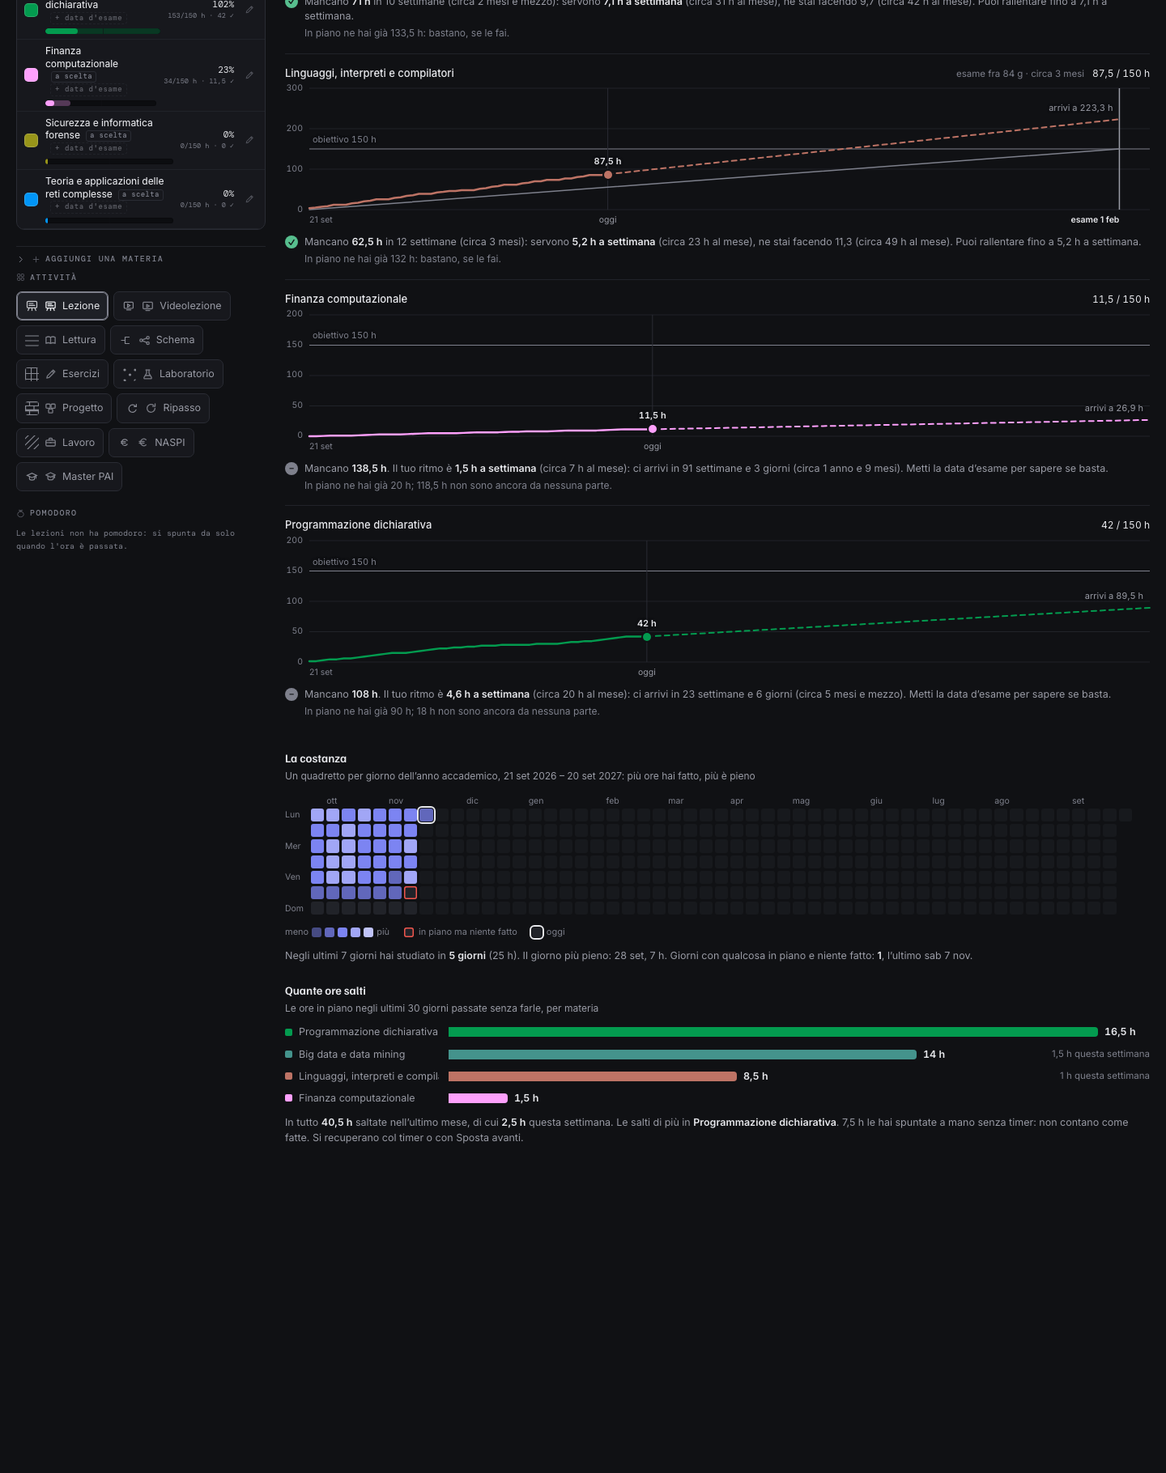
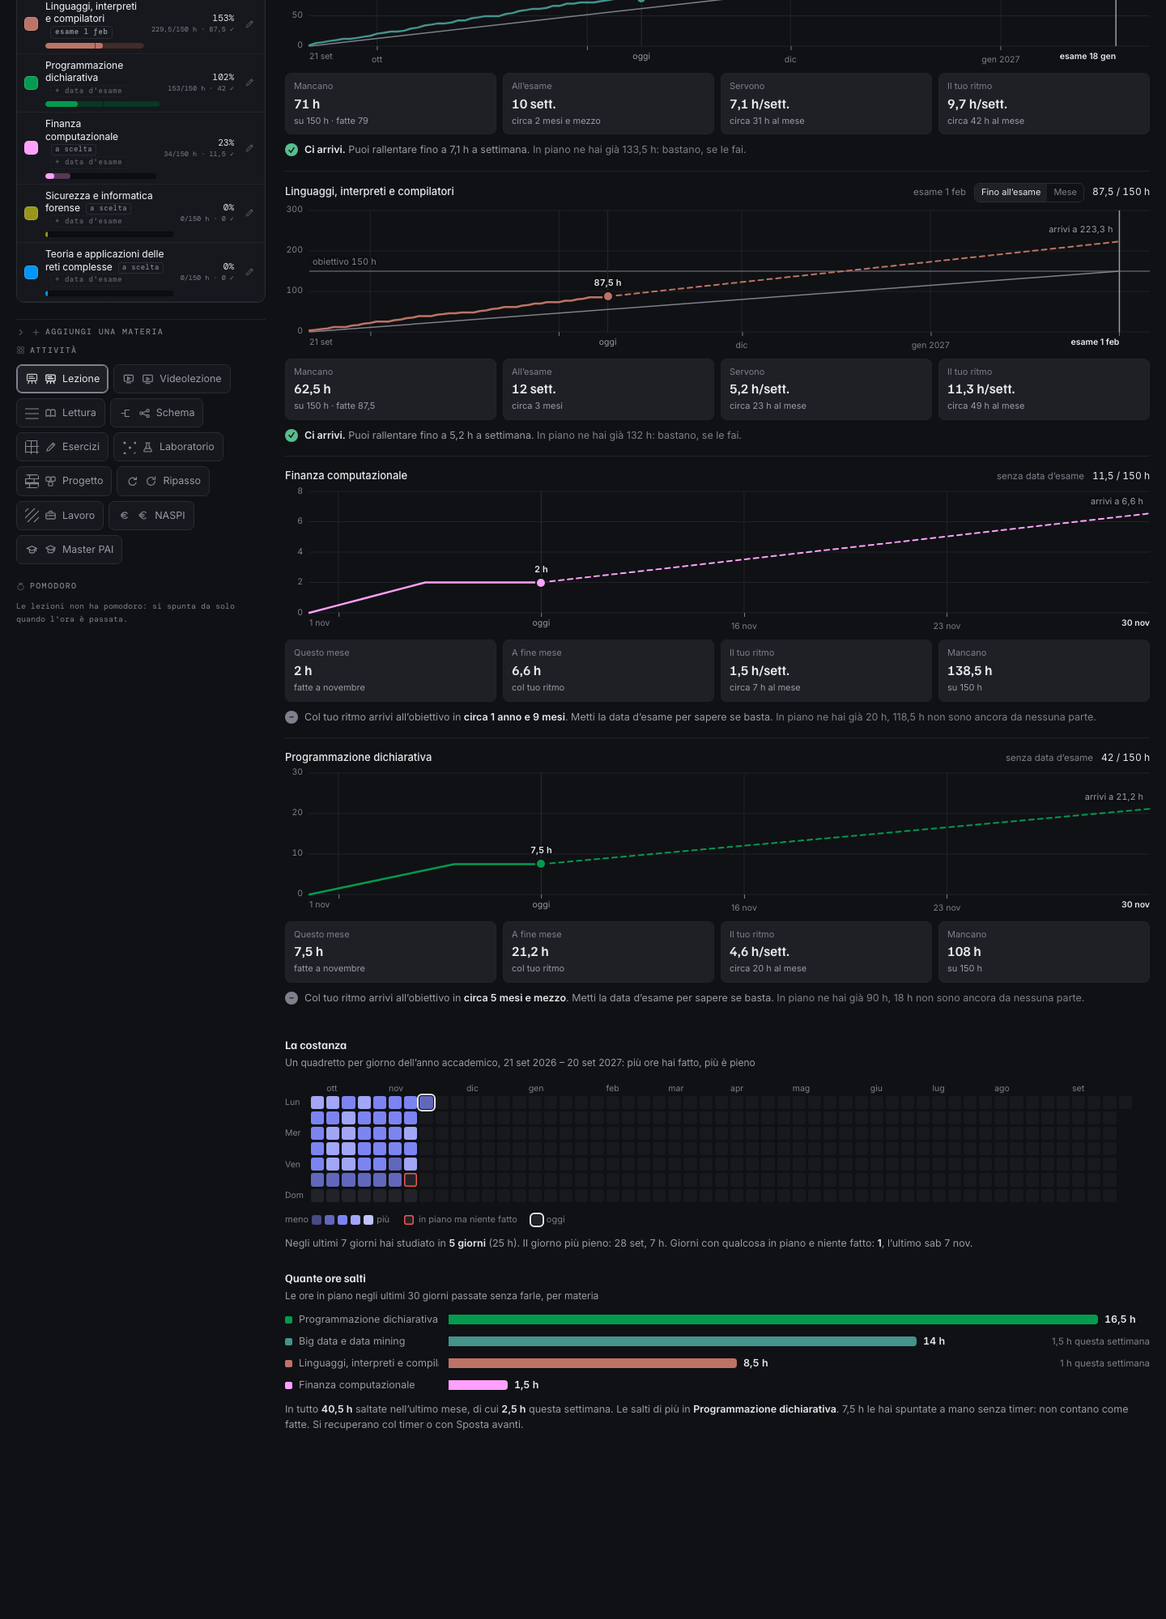
Ce la fai per l'esame: fino all'esame o il mese, numeri in riquadri, tacche sul tempo
- Con la data d'esame la corsa va dal primo giorno in piano all'esame,
  anche se e' fra un anno; un pulsante passa alla vista del mese. Senza
  data la vista e' il mese di adesso, dal primo all'ultimo giorno, con le
  ore fatte nel mese, dove arrivi a fine mese col tuo ritmo e, se c'e' la
  data, quante ne servono nel mese.
- Sotto il grafico quattro riquadri (Mancano, All'esame, Servono, Il tuo
  ritmo; o Questo mese, A fine mese, Il tuo ritmo, Servono/Mancano) e
  l'esito in una riga sola, al posto della frase lunga su due righe.
- L'asse del tempo ha le tacche: l'inizio di ogni mese se il grafico copre
  piu' di due mesi, se no ogni lunedi', con una riga leggera nel grafico.

diff --git a/index.html b/index.html
@@ -865,6 +865,11 @@ html[data-theme="light"] .gdot{background:color-mix(in srgb,var(--c) 68%,#000)}
 .gcorsa .gx,.gwk .gx{grid-column:2;position:relative;height:16px;margin-top:5px;font-size:10.5px;color:var(--tx3)}
 .gcorsa .gx span{position:absolute;top:0;white-space:nowrap}
 .gcorsa .gx .oggi{transform:translateX(-50%);color:var(--tx2)}
+/* le tacche del tempo: una righina che sale dall'asse e la data sotto */
+.gsvg .gtv{stroke:var(--line-soft);stroke-width:1}
+.gcorsa .gx .gtk{transform:translateX(-50%);color:var(--tx3);padding-top:4px}
+.gcorsa .gx .gtk::before{content:"";position:absolute;left:50%;top:-5px;width:1px;height:5px;background:var(--tx3)}
+.gcorsa .gx .gtk.muta{color:transparent}
 .gritmo{display:flex;align-items:flex-start;gap:8px;margin-top:10px;font-size:12.5px;
   line-height:1.45;color:var(--tx2)}
 .gritmo b{color:var(--tx);font-weight:600}
@@ -918,6 +923,20 @@ html[data-theme="light"]{--g1:#9b9fe0;--g2:#7279db;--g3:#4A54D6;--g4:#3a42a7;--g
 .gscala{display:flex;flex-wrap:wrap;align-items:center;gap:4px;margin-top:10px;font-size:11px;color:var(--tx3)}
 .gscala i{display:inline-block;width:12px;height:12px;border-radius:3px}
 .gscala .gs0{display:inline-flex;align-items:center;gap:6px;margin-left:14px}
+/* i numeri della corsa, in riquadri */
+.gq{display:grid;grid-template-columns:repeat(4,minmax(0,1fr));gap:8px;margin-top:12px}
+.gq div{display:flex;flex-direction:column;gap:1px;padding:8px 10px;border-radius:var(--r-sm);
+  background:var(--raised);border:1px solid var(--line-soft);min-width:0}
+.gq span{font-size:11px;color:var(--tx3)}
+.gq b{font-family:"Familjen Grotesk",sans-serif;font-size:17px;font-weight:600;color:var(--tx);
+  white-space:nowrap;overflow:hidden;text-overflow:ellipsis}
+.gq i{font-style:normal;font-size:11px;color:var(--tx2);white-space:nowrap;overflow:hidden;text-overflow:ellipsis}
+@media (max-width:760px){.gq{grid-template-columns:repeat(2,minmax(0,1fr))}}
+.gpn2{color:var(--tx3)}
+.gvis{display:inline-flex;border:1px solid var(--line);border-radius:6px;overflow:hidden;flex:0 0 auto}
+.gvis button{border:0;background:none;color:var(--tx3);font-size:11px;padding:3px 8px;cursor:pointer}
+.gvis button.on{background:var(--raised);color:var(--tx)}
+.gvis button:hover{color:var(--tx)}
 /* 3 — quante ore salti: una riga per materia */
 .gsal{display:flex;flex-direction:column;gap:9px}
 .gsr{display:grid;grid-template-columns:minmax(0,190px) minmax(0,1fr) auto;align-items:center;gap:12px}
@@ -1890,7 +1909,7 @@ const SWATCHES=["#6E8BFF","#8FA4E8","#5FA8D3","#4A8FBE","#63C2C2","#4EA5A5",
    scritta nel pannello Backup: quando "mi fa ancora lo stesso" la prima
    domanda e' se il browser sta mostrando il file nuovo o uno vecchio in
    memoria — e senza questo nessuno dei due puo' rispondere. */
-const VERSIONE="4 ott 2026 · h";
+const VERSIONE="4 ott 2026 · i";
 const KEY="piano-6272-v5";
 let state={v:8,theme:"dark",piano:"LM18",year:1,ctx:"1",from:0,to:6,span:7,dayStart:0,act:"LEZ",brush:null,erase:false,
            exams:[],over:{},q:"",collapsed:{},dayClip:null,semOpen:false,blockClip:null,
@@ -4498,6 +4517,10 @@ function gTip(){
     const el=e.target.closest&&e.target.closest("[data-tip]");
     if(el)segno(el,e.clientX,e.clientY);else fumettoVia();
   });
+  box.addEventListener("click",e=>{
+    const v=e.target.closest&&e.target.closest("[data-vista]");if(!v)return;
+    vistaCorsa[v.dataset.id]=v.dataset.vista;semSummary();
+  });
   box.addEventListener("pointerleave",()=>{fumettoVia();box.querySelectorAll(".gmir").forEach(m=>m.style.display="none");});
   box.addEventListener("pointerout",e=>{
     const c=e.target.closest&&e.target.closest(".gplot[data-corsa]");
@@ -4726,112 +4749,146 @@ function inMesi(g){
   if(a){const r=Math.round(mm-a*12);return "circa "+a+(a===1?" anno":" anni")+(r?" e "+mesi(r,false):"");}
   return "circa "+mesi(mm,true);
 }
+/* La corsa di una materia, in due viste (4 ottobre):
+   - "Esame", se la data c'e': dal primo giorno in piano al giorno
+     dell'esame, anche se e' fra un anno;
+   - "Mese": il mese di adesso, dal primo all'ultimo giorno. E' la vista di
+     chi la data non ce l'ha, e resta a portata di un clic per chi ce l'ha.
+   Le linee: fatte (piena), col tuo ritmo (tratteggio: le ore degli ultimi
+   trenta giorni divise per trenta), dove dovresti essere (grigia). Sotto,
+   i numeri in quattro riquadri invece che in una frase lunga, e l'esito in
+   una riga sola. */
+const vistaCorsa={};
 function corsa(r,giorni,primoG,ultimoG,inPiano){
   const o=r.o,tgt=r.tgt,oggiD=parse(iso(new Date()));
   const conData=r.gg!=null&&r.gg>=0,passato=r.gg!=null&&r.gg<0;
-  let inizio=primoG?parse(primoG):oggiD;if(inizio>oggiD)inizio=oggiD;
+  const vista=conData&&vistaCorsa[o.id]!=="mese"?"esame":"mese";
   const dd=(a,b)=>Math.round((b-a)/86400000);
-  const iOggi=dd(inizio,oggiD);
-  /* fin dove: il giorno dell'esame e un poco oltre, perche' la sua riga si
-     veda; senza data, l'ultimo giorno in piano o quattro settimane */
-  let fine;
-  if(r.gg!=null)fine=parse(o.date);
-  else{fine=ultimoG?parse(ultimoG):oggiD;if(dd(oggiD,fine)<28)fine=addDays(oggiD,28);}
-  let nEsame=r.gg!=null?dd(inizio,parse(o.date)):null;
-  let n=Math.max(iOggi,dd(inizio,fine));
-  n=Math.max(7,n+Math.max(2,Math.round(n*0.04)));
-  /* le ore fatte, giorno per giorno fino a oggi */
-  const fatte=[];let cum=0;
-  for(let g=0;g<=iOggi;g++){cum+=(giorni[iso(addDays(inizio,g))]||0)/PERQ;fatte.push(cum);}
-  const ora=cum;
-  /* Il ritmo: le ore fatte nelle ultime quattro settimane (o da quando hai
-     cominciato la materia, se e' meno), divise per le settimane — ma mai per
-     meno di una. Dividere per i giorni passati e moltiplicare per sette
-     gonfiava i primi giorni: sei ore fra sabato e domenica diventavano
-     "ne stai facendo 21 a settimana", e il grafico diceva di rallentare
-     (27 settembre). Una settimana non ancora finita vale una settimana. */
-  /* Dal 4 ottobre il ritmo e' quello dell'ultimo mese intero: le ore fatte
-     negli ultimi trenta giorni, divise per trenta. Con le sole settimane da
-     quando hai cominciato era "troppo breve": due settimane buone o cattive
-     facevano il ritmo di tutto il semestre. */
+  const MESI=["gennaio","febbraio","marzo","aprile","maggio","giugno","luglio","agosto","settembre","ottobre","novembre","dicembre"];
+  /* il ritmo: ultimi trenta giorni diviso trenta */
   let ult=0;for(let g=0;g<30;g++)ult+=(giorni[iso(addDays(oggiD,-g))]||0)/PERQ;
-  const alGiorno=ult/30,aSett=alGiorno*7;
-  const fineProiez=conData?nEsame:(passato?null:n);
-  const proiez=fineProiez!=null?(g=>ora+alGiorno*(g-iOggi)):null;
-  const dovresti=conData||passato?(g=>Math.min(tgt,tgt*Math.max(0,g)/Math.max(1,nEsame))):null;
-  const arrivo=proiez?proiez(fineProiez):ora;
-  const yMax=Math.max(tgt,arrivo,ora)*1.06;
+  const alGiorno=ult/30,aSett=alGiorno*7,aMese=alGiorno*30.44;
+  /* tutte le ore fatte fino a oggi */
+  let ora=0;Object.keys(giorni).forEach(d=>{if(d<=iso(oggiD))ora+=giorni[d]/PERQ;});
+  const manca=Math.max(0,tgt-ora),giorniRest=conData?Math.max(0,r.gg):null;
+  const serveG=conData&&giorniRest?manca/giorniRest:null;      /* ore al giorno che servono */
+  let inizio,n,nEsame=null,base0=0,fineProiez,dovresti=null,linea=null,lineaEt="";
+  if(vista==="esame"){
+    inizio=primoG?parse(primoG):oggiD;if(inizio>oggiD)inizio=oggiD;
+    nEsame=dd(inizio,parse(o.date));
+    n=Math.max(7,nEsame+Math.max(2,Math.round(nEsame*0.04)));
+    fineProiez=nEsame;
+    dovresti=g=>Math.min(tgt,tgt*Math.max(0,g)/Math.max(1,nEsame));
+    linea=tgt;lineaEt="obiettivo "+tgt+" h";
+  }else{
+    inizio=new Date(oggiD.getFullYear(),oggiD.getMonth(),1);
+    const fineM=new Date(oggiD.getFullYear(),oggiD.getMonth()+1,0);
+    n=dd(inizio,fineM);fineProiez=n;
+    /* nel mese si conta da zero: le ore fatte prima del primo non ci sono */
+    Object.keys(giorni).forEach(d=>{if(d<iso(inizio))base0+=giorni[d]/PERQ;});
+    if(serveG!=null){const tot=serveG*(n+1);dovresti=g=>tot*Math.max(0,g)/n;linea=tot;
+      lineaEt="servono "+Math.round(tot)+" h nel mese";}
+    if(conData){const ge=dd(inizio,parse(o.date));if(ge<=n)nEsame=ge;}
+  }
+  const iOggi=dd(inizio,oggiD);
+  const fatte=[];let cum=0;
+  for(let g=0;g<=iOggi;g++){cum+=(giorni[iso(addDays(inizio,g))]||0)/PERQ;fatte.push(vista==="esame"?cum:cum);}
+  if(vista==="esame"){/* dall'inizio della materia */}
+  const oraV=cum;
+  const proiez=passato&&vista==="esame"?null:(g=>oraV+alGiorno*(g-iOggi));
+  const arrivo=proiez?proiez(fineProiez):oraV;
+  const yMax=Math.max(linea||0,arrivo,oraV,1)*1.08;
   const tk=tacche(yMax),top=tk[tk.length-1];
   const W=1000,H=100,X=g=>(g/n*W).toFixed(1),Y=v=>(H-v/top*H).toFixed(2);
   corse[o.id]={inizio:inizio,n:n,oggi:iOggi,fatte:fatte,dovresti:dovresti,
     proiez:proiez&&(g=>g<=fineProiez?proiez(g):null),esame:nEsame};
   const via=a=>a.map(p=>X(p[0])+","+Y(p[1])).join(" ");
   const pFatte=fatte.map((v,g)=>[g,v]);
-  const pProiez=proiez&&fineProiez>=iOggi?[[iOggi,ora],[fineProiez,arrivo]]:null;
-  const pDov=dovresti?[[0,0],[nEsame,tgt]]:null;
-  /* il colore della materia sulla linea; nel tema chiaro un passo piu' scuro,
-     perche' i colori chiari sul fondo chiaro reggerebbero poco */
+  const pProiez=proiez&&fineProiez>=iOggi?[[iOggi,oraV],[fineProiez,arrivo]]:null;
+  const pDov=dovresti?[[0,0],[vista==="esame"?nEsame:n,dovresti(vista==="esame"?nEsame:n)]]:null;
   const col='style="--c:'+o.color+'"';
-  let svg='<svg class="gsvg" viewBox="0 0 '+W+" "+H+'" preserveAspectRatio="none" aria-hidden="true">'+
+  /* L'asse del tempo con le tacche (4 ottobre): l'inizio di ogni mese se il
+     grafico copre piu' di due mesi, se no ogni lunedi'. Le scritte che
+     cadrebbero addosso a "oggi", all'inizio o alla fine si saltano; la
+     tacca resta. */
+  const MESIB=["gen","feb","mar","apr","mag","giu","lug","ago","set","ott","nov","dic"];
+  const tacT=[];
+  for(let g=1;g<n;g++){
+    const d=addDays(inizio,g);
+    if(n>62?d.getDate()===1:d.getDay()===1)
+      tacT.push({g:g,et:n>62?MESIB[d.getMonth()]+(d.getMonth()===0?" "+d.getFullYear():""):d.getDate()+" "+MESIB[d.getMonth()]});
+  }
+  const lontano=g=>Math.abs(g-iOggi)/n>0.07&&g/n>0.08&&g/n<0.9&&(nEsame==null||Math.abs(g-nEsame)/n>0.09);
+  const svg='<svg class="gsvg" viewBox="0 0 '+W+" "+H+'" preserveAspectRatio="none" aria-hidden="true">'+
     tk.map(v=>'<line class="ggr" x1="0" x2="'+W+'" y1="'+Y(v)+'" y2="'+Y(v)+'"/>').join("")+
-    '<line class="gmt" x1="0" x2="'+W+'" y1="'+Y(tgt)+'" y2="'+Y(tgt)+'"/>'+
+    tacT.map(t=>'<line class="gtv" x1="'+X(t.g)+'" x2="'+X(t.g)+'" y1="0" y2="'+H+'"/>').join("")+
+    (linea!=null?'<line class="gmt" x1="0" x2="'+W+'" y1="'+Y(linea)+'" y2="'+Y(linea)+'"/>':"")+
     '<line class="gog" x1="'+X(iOggi)+'" x2="'+X(iOggi)+'" y1="0" y2="'+H+'"/>'+
     (nEsame!=null?'<line class="ges" x1="'+X(nEsame)+'" x2="'+X(nEsame)+'" y1="0" y2="'+H+'"/>':"")+
     (pDov?'<polyline class="gdv" points="'+via(pDov)+'"/>':"")+
     (pProiez?'<polyline class="gpr" '+col+' points="'+via(pProiez)+'"/>':"")+
     '<polyline class="gft" '+col+' points="'+via(pFatte)+'"/>'+
     "</svg>";
-  const pc=(g)=>(g/n*100).toFixed(2)+"%",pv=v=>(v/top*100).toFixed(2)+"%";
-  /* etichette dirette, fuori dall'svg perche' il testo non si stiri */
+  const pc=g=>(g/n*100).toFixed(2)+"%",pv=v=>(v/top*100).toFixed(2)+"%";
   const etichette=
-    '<span class="gdot" style="--c:'+o.color+';left:'+pc(iOggi)+';bottom:'+pv(ora)+'"></span>'+
-    '<span class="glb" style="left:'+pc(iOggi)+';bottom:calc('+pv(ora)+' + 8px)">'+num1(ora)+" h</span>"+
-    '<span class="glb gmtl" style="left:4px;bottom:calc('+pv(tgt)+' + 3px)">obiettivo '+tgt+" h</span>"+
+    '<span class="gdot" style="--c:'+o.color+';left:'+pc(iOggi)+';bottom:'+pv(oraV)+'"></span>'+
+    '<span class="glb" style="left:'+pc(iOggi)+';bottom:calc('+pv(oraV)+' + 8px)">'+num1(oraV)+" h</span>"+
+    (linea!=null?'<span class="glb gmtl" style="left:4px;bottom:calc('+pv(linea)+' + 3px)">'+lineaEt+"</span>":"")+
     (pProiez&&fineProiez>iOggi?'<span class="glb gprl" style="left:'+pc(fineProiez)+';bottom:calc('+pv(arrivo)+' + 6px)">arrivi a '+num1(arrivo)+" h</span>":"");
+  const fineEt=vista==="esame"?null:new Date(oggiD.getFullYear(),oggiD.getMonth()+1,0);
   const grafico='<div class="gcorsa"><div class="gy">'+
       tk.map(v=>'<span style="bottom:'+pv(v)+'">'+v+"</span>").join("")+
     '</div><div class="gplot" data-corsa="'+esc(o.id)+'">'+svg+etichette+'<i class="gmir"></i></div>'+
     '<div class="gx"><span style="left:0">'+fmt(inizio)+"</span>"+
-      (iOggi/n>0.12&&(nEsame==null||Math.abs(nEsame-iOggi)/n>0.16)?'<span class="oggi" style="left:'+pc(iOggi)+'">oggi</span>':"")+
-      /* la data d'esame sull'asse, sotto la sua riga */
+      tacT.map(t=>'<span class="gtk'+(lontano(t.g)?"":" muta")+'" style="left:'+pc(t.g)+'">'+t.et+"</span>").join("")+
+      (iOggi/n>0.12&&iOggi/n<0.85&&(nEsame==null||Math.abs(nEsame-iOggi)/n>0.16)?'<span class="oggi" style="left:'+pc(iOggi)+'">oggi</span>':"")+
       (nEsame!=null?'<span class="esame" style="left:'+pc(nEsame)+'">esame '+fmt(parse(o.date))+"</span>":"")+
+      (fineEt&&nEsame==null?'<span class="esame" style="left:100%">'+fmt(fineEt)+"</span>":"")+
     "</div></div>";
-  /* quanto manca, a parole */
-  const manca=Math.max(0,tgt-ora),giorniRest=conData?Math.max(0,r.gg):null;
+  /* i numeri, in riquadri */
   const tempo=g=>{const s=Math.floor(g/7),x=g%7;
-    const w=(s?s+(s===1?" settimana":" settimane"):"")+(s&&x?" e ":"")+(x?x+(x===1?" giorno":" giorni"):"")||"oggi";
-    return g>=21?w+" ("+inMesi(g)+")":w;};
-  /* le ore a settimana dette anche al mese: una settimana e' un quarto
-     abbondante di mese (4,35) */
-  const alMese=v=>" (circa "+Math.round(v*4.35)+" h al mese)";
+    return (s?s+(s===1?" sett.":" sett."):"")+(s&&x?" e ":"")+(x?x+(x===1?" giorno":" giorni"):"")||"oggi";};
+  const q=(etichetta,valore,sotto)=>'<div><span>'+etichetta+"</span><b>"+valore+"</b>"+(sotto?"<i>"+sotto+"</i>":"")+"</div>";
+  let riq="";
+  if(vista==="esame"){
+    riq=q("Mancano",num1(manca)+" h","su "+tgt+" h · fatte "+num1(ora))+
+      q("All’esame",giorniRest?tempo(giorniRest):"oggi",giorniRest>=21?inMesi(giorniRest):fmt(parse(o.date)))+
+      q("Servono",serveG!=null?num1(serveG*7)+" h/sett.":"—",serveG!=null?"circa "+Math.round(serveG*30.44)+" h al mese":"")+
+      q("Il tuo ritmo",num1(aSett)+" h/sett.","circa "+Math.round(aMese)+" h al mese");
+  }else{
+    riq=q("Questo mese",num1(oraV)+" h","fatte a "+MESI[oggiD.getMonth()])+
+      q("A fine mese",num1(arrivo)+" h","col tuo ritmo")+
+      q("Il tuo ritmo",num1(aSett)+" h/sett.","circa "+Math.round(aMese)+" h al mese")+
+      (serveG!=null?q("Servono",Math.round(serveG*30.44)+" h al mese",num1(serveG*7)+" h a settimana")
+        :q("Mancano",num1(manca)+" h","su "+tgt+" h"));
+  }
   let esito,testo;
   if(passato){esito="nd";testo="Esame passato: "+num1(ora)+" h fatte su "+tgt+".";}
   else if(!manca){esito="ok";testo="<b>Obiettivo raggiunto</b>: "+num1(ora)+" h su "+tgt+".";}
   else if(!conData){
     esito="nd";
-    testo="Mancano <b>"+num1(manca)+" h</b>. Il tuo ritmo è <b>"+num1(aSett)+" h a settimana</b>"+
-      alMese(aSett)+
-      (aSett>0?": ci arrivi in "+tempo(Math.ceil(manca/alGiorno))+".":".")+
-      " Metti la data d’esame per sapere se basta.";
-  }else if(!giorniRest){
-    esito="ko";testo="L’esame è oggi: mancano "+num1(manca)+" h all’obiettivo.";
-  }else{
-    const serve=manca/(giorniRest/7),diff=aSett-serve;
+    testo=aSett>0?"Col tuo ritmo arrivi all’obiettivo in <b>"+inMesi(Math.ceil(manca/alGiorno))+"</b>. Metti la data d’esame per sapere se basta."
+      :"Nell’ultimo mese niente di fatto. Metti la data d’esame per sapere quanto serve.";
+  }else if(!giorniRest){esito="ko";testo="L’esame è oggi: mancano "+num1(manca)+" h all’obiettivo.";}
+  else{
+    const diff=aSett-serveG*7;
     esito=diff>=0?"ok":"ko";
-    testo="Mancano <b>"+num1(manca)+" h</b> in "+tempo(giorniRest)+": servono <b>"+num1(serve)+
-      " h a settimana</b>"+alMese(serve)+", ne stai facendo "+num1(aSett)+alMese(aSett)+". "+
-      (diff>=0?(diff<0.05?"Sei esattamente al passo.":"Puoi rallentare fino a "+num1(serve)+" h a settimana.")
-        :"Devi aumentare di <b>"+num1(-diff)+" h a settimana</b>"+alMese(-diff)+".");
+    testo=diff>=0?(diff<0.05?"<b>Sei esattamente al passo.</b>":"<b>Ci arrivi.</b> Puoi rallentare fino a "+num1(serveG*7)+" h a settimana.")
+      :"<b>Così non ci arrivi.</b> Devi aumentare di <b>"+num1(-diff)+" h a settimana</b> (circa "+Math.round(-diff/7*30.44)+" h al mese).";
   }
   const vuoto=Math.max(0,manca-inPiano);
+  const sw=conData?'<span class="gvis" role="group" aria-label="Vista">'+
+      '<button data-vista="esame" data-id="'+esc(o.id)+'"'+(vista==="esame"?' class="on"':"")+'>Fino all’esame</button>'+
+      '<button data-vista="mese" data-id="'+esc(o.id)+'"'+(vista==="mese"?' class="on"':"")+'>Mese</button></span>':"";
   return '<div class="gp"><div class="gph"><b>'+esc(o.name)+"</b>"+
-      (r.gg!=null?"<em>"+(r.gg>=0?"esame fra "+r.gg+" g"+(r.gg>=21?" · "+inMesi(r.gg):""):"esame passato")+"</em>":"")+
-      "<u>"+num1(ora)+" / "+tgt+" h</u></div>"+grafico+
+      (r.gg!=null?"<em>"+(r.gg>=0?"esame "+fmt(parse(o.date)):"esame passato")+"</em>":"<em>senza data d’esame</em>")+
+      sw+"<u>"+num1(ora)+" / "+tgt+" h</u></div>"+grafico+
+    '<div class="gq">'+riq+"</div>"+
     '<div class="gritmo"><span class="gesito '+esito+'" aria-hidden="true">'+
-      (esito==="ok"?"✓":(esito==="ko"?"!":"–"))+"</span><span>"+testo+"</span></div>"+
-    (manca&&!passato?'<div class="gpn">In piano ne hai già '+num1(inPiano)+" h"+
-      (vuoto?"; "+num1(vuoto)+" h non sono ancora da nessuna parte.":": bastano, se le fai.")+"</div>":"")+
-    "</div>";
+      (esito==="ok"?"✓":(esito==="ko"?"!":"–"))+"</span><span>"+testo+
+      (manca&&!passato?' <span class="gpn2">In piano ne hai già '+num1(inPiano)+" h"+
+        (vuoto?", "+num1(vuoto)+" h non sono ancora da nessuna parte.":": bastano, se le fai.")+"</span>":"")+
+    "</span></div></div>";
 }
 
 /* ---------- giorno intero: copia, incolla, svuota ---------- */

diff --git a/test/suite.js b/test/suite.js
@@ -984,13 +984,19 @@
     /* 150 h da fare in 10 settimane = 15 h a settimana */
     return riga.textContent.indexOf("15 h a settimana")>=0?true:
       "dice: "+riga.textContent;});
+  /* il ritmo sta nel riquadro "Il tuo ritmo" (4 ottobre) */
+  function ritmoLetto(){
+    var q=[].find.call(document.querySelectorAll("#semBody .gq div"),function(d){return /tuo ritmo/i.test(d.querySelector("span").textContent);});
+    return q?(q.querySelector("b").textContent.match(/([\d,]+)/)||[])[1]:null;
+  }
   t("senza data d'esame dice comunque il ritmo che tieni",function(){
     pulisci();apri();
     placeRun(G[0],H0,{i:items()[0].id,a:"LET",len:4},0);
     state.semOpen=true;semSummary();
-    var r=document.querySelector("#semBody .gritmo");
-    return (r&&/il tuo ritmo/i.test(r.textContent))?true:
-      "dice: "+(r?r.textContent:"niente");});
+    /* senza data: la vista del mese, col riquadro del ritmo */
+    var r=ritmoLetto(),v=document.querySelector("#semBody .gp .gvis");
+    if(v)return "senza data c'e' la scelta della vista, che serve solo con la data";
+    return r!=null?true:"manca il riquadro del ritmo";});
   t("avvisa una volta sola, e solo se il blocco è vicino",function(){
     /* La prossima mezz'ora può essere fra un minuto o fra ventinove, secondo
        l'orario in cui gira il banco: controllo la regola, non l'orologio. */
@@ -1238,10 +1244,10 @@
     state.over[o.id]={n:o.name,c:6,d:iso(addDays(new Date(),60))};
     for(var g=1;g<=14;g++)placeRun(iso(addDays(new Date(),-g)),HOURS[2],{i:o.id,a:"LET",len:2,done:1},0);
     semSummary();
-    var prima=(document.querySelector("#semBody .gritmo").textContent.match(/ne stai facendo ([\d,]+)/)||[])[1];
+    var prima=ritmoLetto();
     placeRun(TODAY,HOURS[6],{i:o.id,a:"LET",len:4,done:1},0);   /* due ore fatte oggi */
     semSummary();
-    var dopo=(document.querySelector("#semBody .gritmo").textContent.match(/ne stai facendo ([\d,]+)/)||[])[1];
+    var dopo=ritmoLetto();
     state.over={};
     if(!prima||!dopo)return "la riga non dice il ritmo";
     return parseFloat(dopo.replace(",","."))>parseFloat(prima.replace(",","."))?true:
@@ -1257,9 +1263,9 @@
     placeRun(iso(addDays(new Date(),-1)),HOURS[2],{i:o.id,a:"SCH",len:6,done:1},0);
     placeRun(TODAY,HOURS[10],{i:o.id,a:"SCH",len:6,done:1},0);
     semSummary();
-    var t=document.querySelector("#semBody .gritmo").textContent;
+    var t=document.querySelector("#semBody .gp").textContent;
     state.over={};
-    var r=(t.match(/ne stai facendo ([\d,]+)/)||[])[1];
+    var r=ritmoLetto();
     /* sei ore nell'ultimo mese: 6/30*7 = 1,4 a settimana, non 21 */
     return r==="1,4"?true:"dice: "+t;});
   t("il tempo che manca e' detto anche in mesi",function(){
@@ -1620,6 +1626,24 @@
       return !(nb&&ic&&pa&&pa.textContent.trim()&&pa.scrollWidth<=pa.clientWidth);});
     return male.length?male.length+" titoli senza nome, icona o attivita' intera: "+
       [].map.call(male,function(b){return b.textContent.trim();}).slice(0,3).join(" | "):true;});
+  /* 4 ottobre: con la data d'esame la corsa va fino all'esame, anche fra un
+     anno, e si puo' passare al mese; senza data e' il mese. L'asse ha le tacche. */
+  t("la corsa: fino all'esame o il mese, con le tacche del tempo",function(){
+    pulisci();apri();
+    var o=items()[0];
+    state.over[o.id]={n:o.name,c:6,d:iso(addDays(new Date(),360))};
+    placeRun(iso(addDays(new Date(),-3)),HOURS[2],{i:o.id,a:"SCH",len:4,done:1},0);
+    semSummary();
+    var c1=corse[o.id],tacche1=document.querySelectorAll("#semBody .gp .gx .gtk").length;
+    var b=document.querySelector('#semBody .gvis [data-vista="mese"]');
+    if(!b){state.over={};return "con la data manca il pulsante del mese";}
+    b.click();
+    var c2=corse[o.id],t2=document.querySelector("#semBody .gq").textContent;
+    vistaCorsa[o.id]=null;state.over={};
+    if(!c1||c1.n<350)return "la vista dell'esame non arriva all'esame fra un anno: "+(c1&&c1.n)+" giorni";
+    if(tacche1<10)return "fino all'esame le tacche dei mesi sono "+tacche1;
+    if(!c2||c2.n>31)return "la vista del mese dura "+(c2&&c2.n)+" giorni";
+    return /Questo mese/.test(t2)?true:"i riquadri del mese dicono: "+t2;});
   t("il lavoro e la NASPI non contano nei grafici",function(){
     pulisci();apri();
     var ieri=iso(addDays(new Date(),-1));
